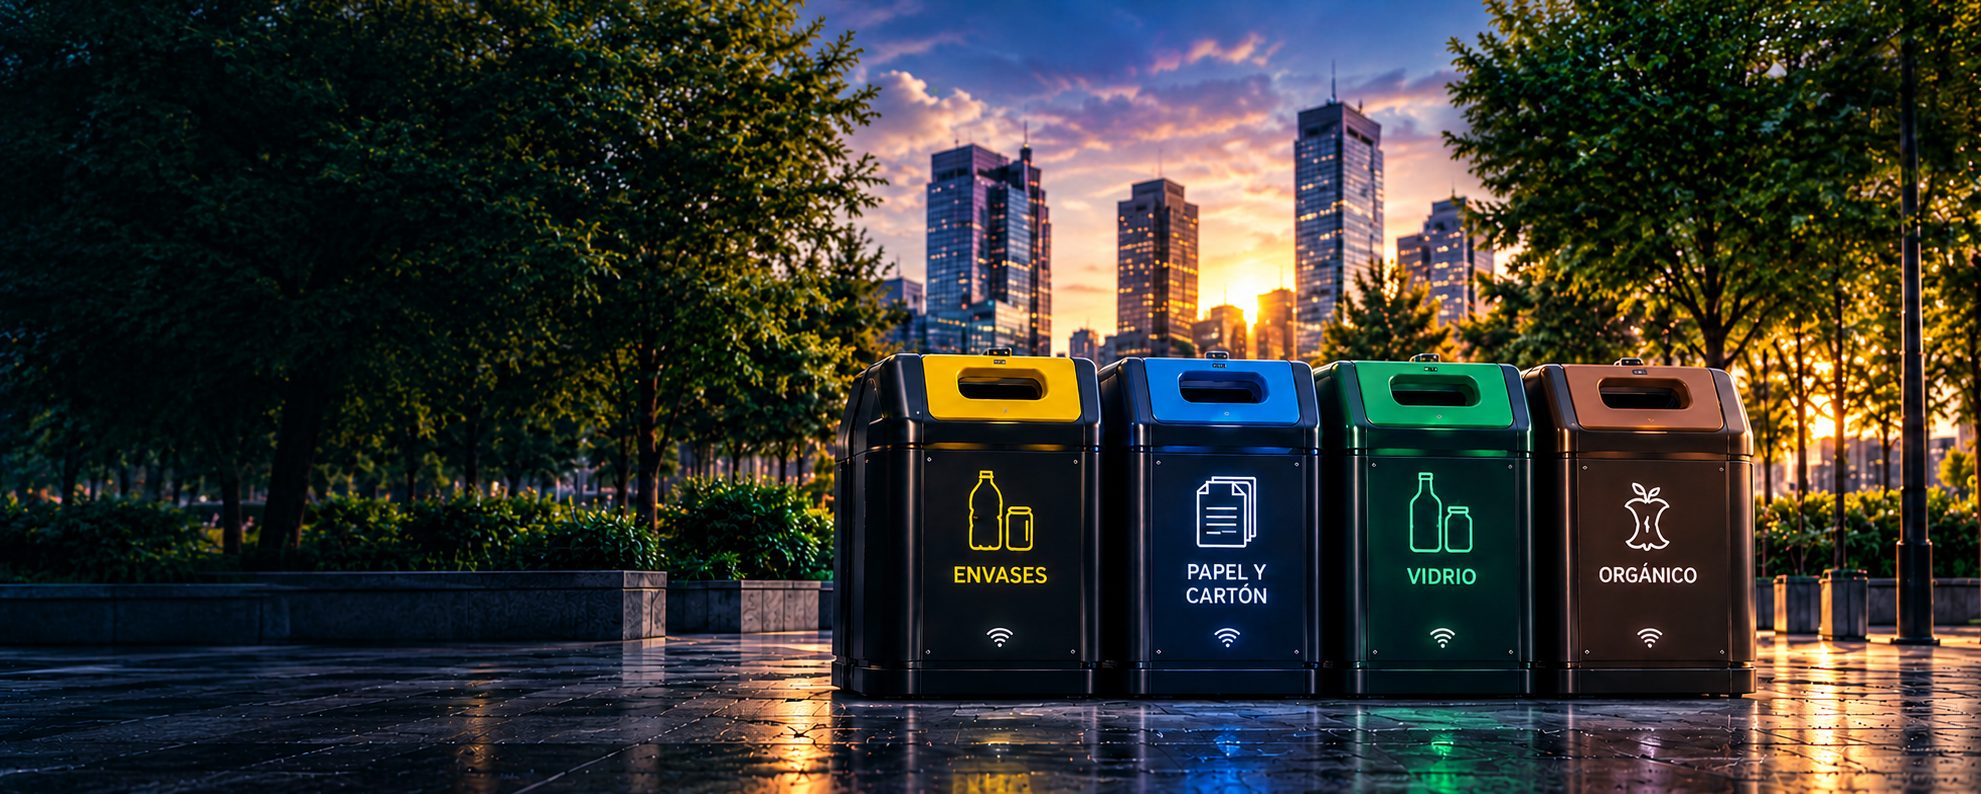
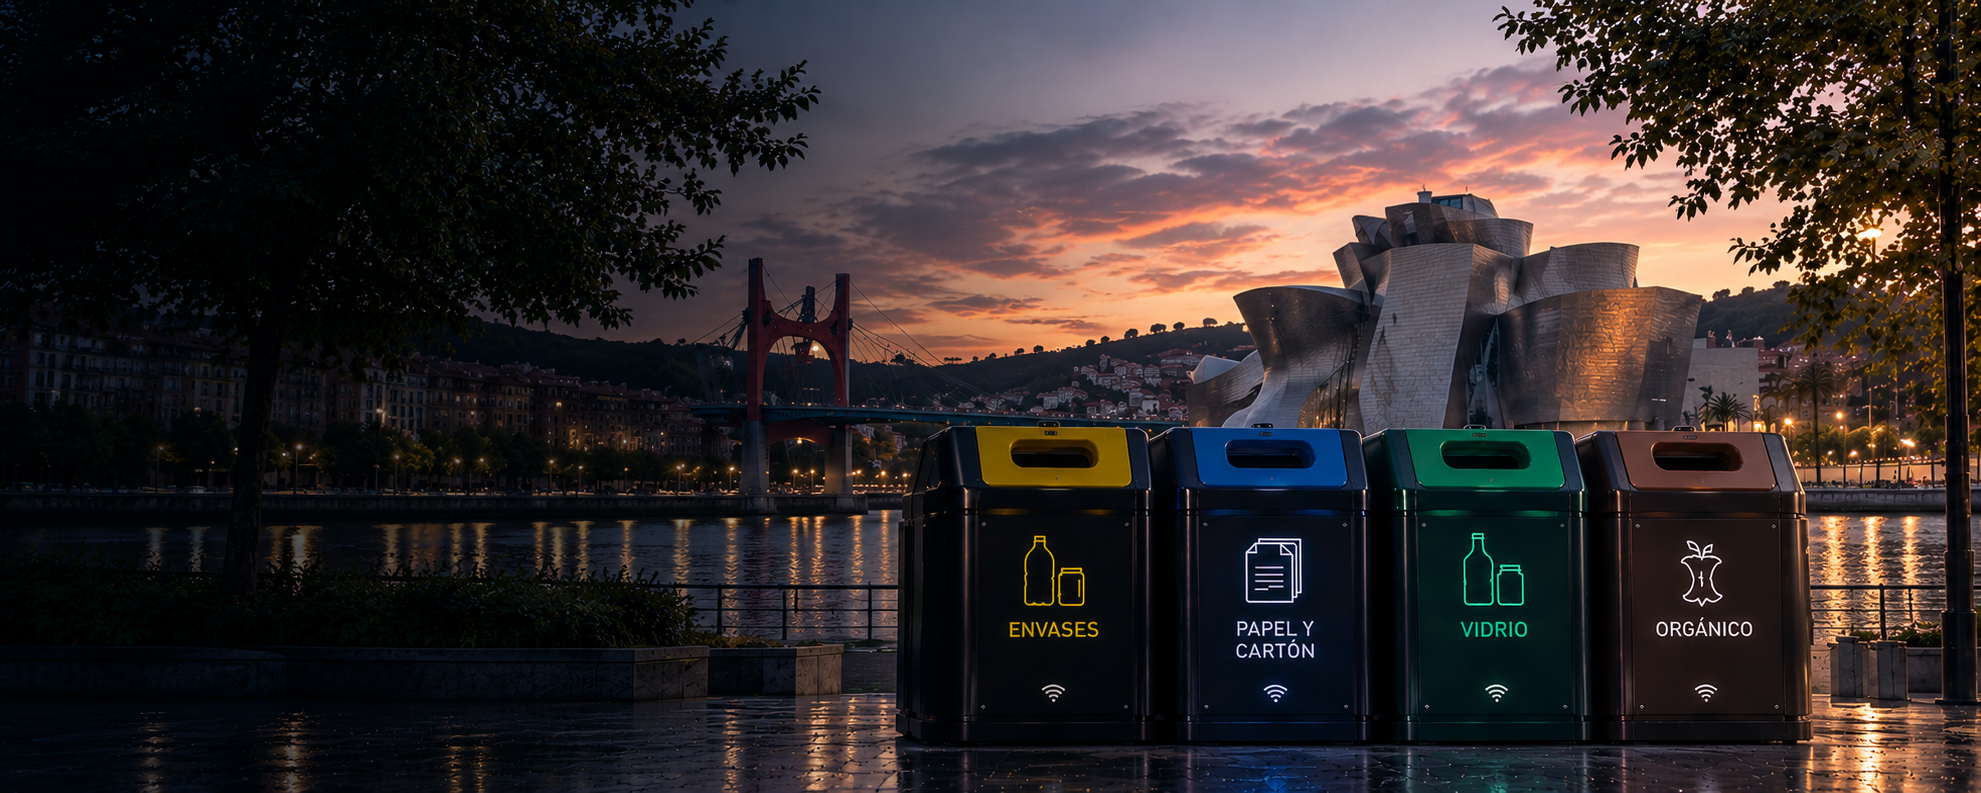
Mejora del fondo del index

diff --git a/web/CSS/style.css b/web/CSS/style.css
@@ -74,8 +74,9 @@ header{
   color: white;
   display: flex;
   align-items: center;
-  gap: 40px;
   position: relative;
+ min-height: calc(100vh - 60px);
+
 }
 
 .portada-texto {
@@ -83,7 +84,7 @@ header{
     text-align: left;
     width: 100%;
     max-width: 500px;
-    margin: 100px;
+    margin: 10px 80px;
     position: absolute;
     
 }
@@ -92,6 +93,7 @@ header{
 .portada-imagen img {
   width: 100%;
   display: block;
+  min-height: calc(100vh - 60px);
 }
 
 .etiqueta {
@@ -99,14 +101,14 @@ header{
   background-color: rgba(63, 208, 127, 0.2);
   border: 1px solid #3fd07f;
   color: #b9f3d2;
-  font-size: 17px;
+  font-size: 20px;
   padding: 4px 14px;
   border-radius: 20px;
   margin-bottom: 20px;
 }
 
 .portada h1 {
-  font-size: 42px;
+  font-size: 50px;
   line-height: 1.2;
   margin-bottom: 20px;
   text-align: left;
@@ -116,6 +118,7 @@ header{
 
 .portada p {
   margin-bottom: 25px;
+  font-size: 15px;
 }
 
 .boton {
@@ -262,6 +265,10 @@ header{
 
 .buscadortexto{
   margin-left: 40px;
+}
+
+.tituloConsulta{
+  color:white;
 }
 
 

diff --git a/web/index.html b/web/index.html
@@ -90,7 +90,7 @@
     <section class="buscador-contenedor">
         <div class="iconoytitulo">
             <img src="multimedia/imgbuscador.png" class="iconobuscador">
-            <h2>¿Quieres consultar un contenedor</h2>
+            <h2 class="tituloConsulta">¿Quieres consultar un contenedor?</h2>
         </div>
         <div class="buscadortexto">
             <p>busca el contenedor más cercano,consulta su estado y contribuye a una ciudad mas limpia</p>
